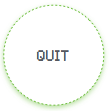
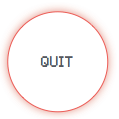
Added in game quit and restart button as well as real time mouse cursor update

Changed region(s): [[0.027, 0.027, 0.9459, 0.973], [0.3243, 0.4324, 0.6216, 0.5676]]

diff --git a/ttt_scene_battlefield_eventhandler.cpp b/ttt_scene_battlefield_eventhandler.cpp
@@ -41,14 +41,8 @@ int SceneBattlefield::handle(sf::Event* xevent)
 
 int SceneBattlefield::handle_mouse_over()
 {
-	// Mouse Cursor
 	sf::Vector2f mouse_position = static_cast<sf::Vector2f>(sf::Mouse::getPosition(*window));
-
-	sf::Vector2f cursor_position = mouse_position;
-	cursor_position.x = cursor_position.x - mouse_cursor.getSize().x / 2;
-	cursor_position.y = cursor_position.y - mouse_cursor.getSize().y / 2;
-	mouse_cursor.setPosition(cursor_position);
-
+	
 	// Hint halos
 	std::vector< int > board_grid_coords = getGridHit( mouse_position );
 
@@ -73,35 +67,32 @@ int SceneBattlefield::handle_mouse_over()
 		o_hint_halo.setPosition(sf::Vector2f(1000, 1000));
 	}
 
-	// Mouse cursor toggling
-	// - ACTIVE if player is targeting active board & empty grid
-	if (instance->checkGrid(board_grid_coords[0], board_grid_coords[1]))
+	// Restart n Quit buttons
+	if (restart_button.getGlobalBounds().contains(mouse_position))
 	{
-		if (instance->getCurrentPlayer() == 'X')
-		{
-			mouse_cursor.setTexture(x_marker_texture);
-		}
-		else
-		{
-			mouse_cursor.setTexture(o_marker_texture);
-		}
+		restart_button.setTexture(restart_button_hover_texture);
+	}
+	else if (quit_button.getGlobalBounds().contains(mouse_position))
+	{
+		quit_button.setTexture(quit_button_hover_texture);
 	}
 	else
 	{
-		if (instance->getCurrentPlayer() == 'X')
-		{
-			mouse_cursor.setTexture(x_marker_inactive_texture);
-		}
-		else
-		{
-			mouse_cursor.setTexture(o_marker_inactive_texture);
-		}
+		restart_button.setTexture(restart_button_normal_texture);
+		quit_button.setTexture(quit_button_normal_texture);
 	}
+
+	// Mouse cursor toggling
+	// - ACTIVE if player is targeting active board & empty grid
+	
+	// Dude to real time need this event handler moved to renderer
+
 	mouse_cursor.setTextureRect( sf::IntRect(0, 0, x_marker_texture->getSize().x, x_marker_texture->getSize().y) );
 }
 
 int SceneBattlefield::handle_mouse_click()
 {
+	sf::Vector2f mouse_position( static_cast<sf::Vector2f>(sf::Mouse::getPosition(*window)) );
 	// Game still running
 	if (instance->getWinner() != ' ' || (instance->isMultiplayer() && instance->isDisconnected()))
 	{
@@ -109,12 +100,14 @@ int SceneBattlefield::handle_mouse_click()
 		if (playagain_button.getGlobalBounds().contains(static_cast<sf::Vector2f>(sf::Mouse::getPosition(*window))))
 		{
 			reset();
-			return 0;
+
+			if (!instance->isMultiplayer())
+				return 0;
 		}
 	}
 	else
 	{
-		std::vector<int> board_grid_coords = getGridHit( static_cast<sf::Vector2f>(sf::Mouse::getPosition(*window)) );
+		std::vector<int> board_grid_coords = getGridHit( mouse_position );
 
 		// Do something when its not -1
 		if (board_grid_coords[0] >= 0)
@@ -146,6 +139,21 @@ int SceneBattlefield::handle_mouse_click()
 			{
 				tie_sound.play();
 			}
+		}
+
+		// Restart n Quit buttons
+		if (restart_button.getGlobalBounds().contains(mouse_position))
+		{
+			instance->reset();
+		}
+		else if (quit_button.getGlobalBounds().contains(mouse_position))
+		{
+			instance->reset();
+			if (instance->isMultiplayer())
+			{
+				instance->requestDisconnection();
+			}
+			return 0;
 		}
 
 	}

diff --git a/ttt_scene_battlefield_render.cpp b/ttt_scene_battlefield_render.cpp
@@ -14,6 +14,13 @@ void SceneBattlefield::render()
 	// Draw mainboard
 	window->draw( battle_board );
 
+	// Draw buttons
+	if (!instance->isMultiplayer())
+	{
+		window->draw(restart_button);
+	}
+	window->draw(quit_button);
+
 	// Draw active halo
 	sf::Vector2f halo_coordinates = getBoardHaloCoorginates( instance->getCurrentBoardId() );
 
@@ -112,14 +119,47 @@ void SceneBattlefield::render()
 		window->draw(playagain_button);
 	}
 
-	// If got winner draw play again button too
-
 	// Draw cursors
 	if (	(!instance->isMultiplayer() && instance->getWinner() == ' ') 
 		|| 	(instance->isMultiplayer() && instance->isItMyTurn() && !instance->isDisconnected())
 		||	(instance->isMultiplayer() && instance->getWinner() != ' ')
 		)
 	{
+		// Mouse Cursor
+		sf::Vector2f mouse_position = static_cast<sf::Vector2f>(sf::Mouse::getPosition(*window));
+
+		sf::Vector2f cursor_position = mouse_position;
+		cursor_position.x = cursor_position.x - mouse_cursor.getSize().x / 2;
+		cursor_position.y = cursor_position.y - mouse_cursor.getSize().y / 2;
+		mouse_cursor.setPosition(cursor_position);
+
+		// Belongs to ttt_scene_battlefield_eventhandler but moved here
+		//   due to need for real time update
+		std::vector< int > board_grid_coords = getGridHit( mouse_position );
+
+		if (instance->checkGrid(board_grid_coords[0], board_grid_coords[1]))
+		{
+			if (instance->getCurrentPlayer() == 'X')
+			{
+				mouse_cursor.setTexture(x_marker_texture);
+			}
+			else
+			{
+				mouse_cursor.setTexture(o_marker_texture);
+			}
+		}
+		else
+		{
+			if (instance->getCurrentPlayer() == 'X')
+			{
+				mouse_cursor.setTexture(x_marker_inactive_texture);
+			}
+			else
+			{
+				mouse_cursor.setTexture(o_marker_inactive_texture);
+			}
+		}
+		
 		window->setMouseCursorVisible(false);
 		window->draw(mouse_cursor);
 	}

diff --git a/ttt_scene_battlefield.cpp b/ttt_scene_battlefield.cpp
@@ -146,6 +146,23 @@ SceneBattlefield::SceneBattlefield(sf::RenderWindow* xwindow, std::vector<sf::Fo
 	playagain_button.setTextureRect(sf::IntRect(0, 0, playagain_button_texture_size.x, playagain_button_texture_size.y));
 	playagain_button.setPosition( (window_size_v2f.x / 2) - (playagain_button.getSize().x / 2) , (window_size_v2f.y / 2) - (playagain_button.getSize().y / 2) + 40);
 
+	// Operation Awesomeness: Adding restart and quit button A LOT of players have been asking for!
+	restart_button_normal_texture = TTTHelpers::load_texture("assets/images/restart-inactive.png");
+	restart_button_hover_texture  = TTTHelpers::load_texture("assets/images/restart-active.png");
+	quit_button_normal_texture    = TTTHelpers::load_texture("assets/images/quit-inactive.png");
+	quit_button_hover_texture     = TTTHelpers::load_texture("assets/images/quit-active.png");
+
+	sf::Vector2u ingame_buttons_texture_size = restart_button_normal_texture->getSize();
+
+	restart_button.setTexture(restart_button_normal_texture);
+	restart_button.setSize( sf::Vector2f(ingame_buttons_texture_size.x, ingame_buttons_texture_size.y) );
+	restart_button.setTextureRect(sf::IntRect(0, 0, ingame_buttons_texture_size.x, ingame_buttons_texture_size.y));
+	restart_button.setPosition( (window_size_v2f.x) - 120 , TOP_LEFT_Y );
+
+	quit_button = restart_button;
+	quit_button.setTexture(quit_button_normal_texture);
+	quit_button.setPosition( 10, TOP_LEFT_Y );
+
 	// Create the soundbytes
 	placement_ok1_sound_buffer = *TTTHelpers::load_sound_buffer("assets/sounds/placement_1.ogg");
 	placement_ok2_sound_buffer = *TTTHelpers::load_sound_buffer("assets/sounds/placement_2.ogg");

diff --git a/ttt_scene_battlefield.hpp b/ttt_scene_battlefield.hpp
@@ -37,7 +37,11 @@ class SceneBattlefield
 		sf::Texture* x_marker_texture,
 			*o_marker_texture,
 			*x_marker_inactive_texture,
-			*o_marker_inactive_texture;
+			*o_marker_inactive_texture,
+			*restart_button_normal_texture,
+			*restart_button_hover_texture,
+			*quit_button_normal_texture,
+			*quit_button_hover_texture;
 
 		sf::Text x_winner_notice,
 			o_winner_notice,
@@ -47,18 +51,20 @@ class SceneBattlefield
 			disconnected_notice,
 			play_again;
 
-		sf::RectangleShape battle_board
-			, x_marker
-			, o_marker
-			, x_active_halo
-			, o_active_halo
-			, x_hint_halo
-			, o_hint_halo
-			, mouse_cursor
-			, x_winner_mat
-			, o_winner_mat
-			, tie_mat
-			, playagain_button;
+		sf::RectangleShape battle_board, 
+			x_marker, 
+			o_marker, 
+			x_active_halo, 
+			o_active_halo, 
+			x_hint_halo, 
+			o_hint_halo, 
+			mouse_cursor, 
+			x_winner_mat, 
+			o_winner_mat, 
+			tie_mat, 
+			playagain_button,
+			restart_button,
+			quit_button;
 
 		sf::SoundBuffer* hover_grid_sound_buffer,
 			placement_ok1_sound_buffer,

diff --git a/ttt_instance_multiplayer.cpp b/ttt_instance_multiplayer.cpp
@@ -24,6 +24,7 @@ void TTT_Instance::resetMultiplayer()
 void TTT_Instance::quitMultiplayer()
 {
 	multiplayer_mode = false;
+	stopWaitingForNextMove();
 }
 
 bool TTT_Instance::isMultiplayer()
@@ -366,6 +367,10 @@ void TTT_Instance::waitForNextMove()
 				main_board[ input_x ][ input_y ] = (multiplayer_amiserver) ? 'X' : 'O';
 				std::cout << "This shouldnt be called" << std::endl;
 			}
+			else if (message_type == 99)
+			{
+				reportDisconnection();
+			}
 		}
 		else if (socket_receive_status == sf::Socket::Disconnected)
 		{
@@ -398,6 +403,13 @@ void TTT_Instance::reportDisconnection()
 	waitForNextMove_thread->terminate();
 
 	reset();
+}
+
+void TTT_Instance::requestDisconnection()
+{
+	sendPacket(99, 0, 0);
+	stopListeningForClient();
+	quitMultiplayer();
 }
 
 // Packet services

diff --git a/ttt_instance.hpp b/ttt_instance.hpp
@@ -107,6 +107,7 @@ class TTT_Instance
 		void stopWaitingForNextMove();
 
 		void reportDisconnection();
+		void requestDisconnection();
 
 		int sendPacket(int, int, int);
 };
